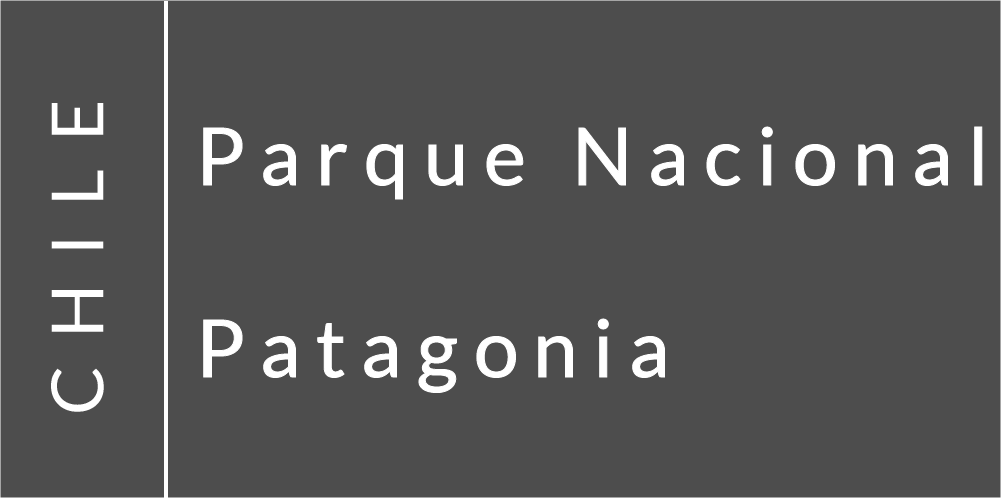
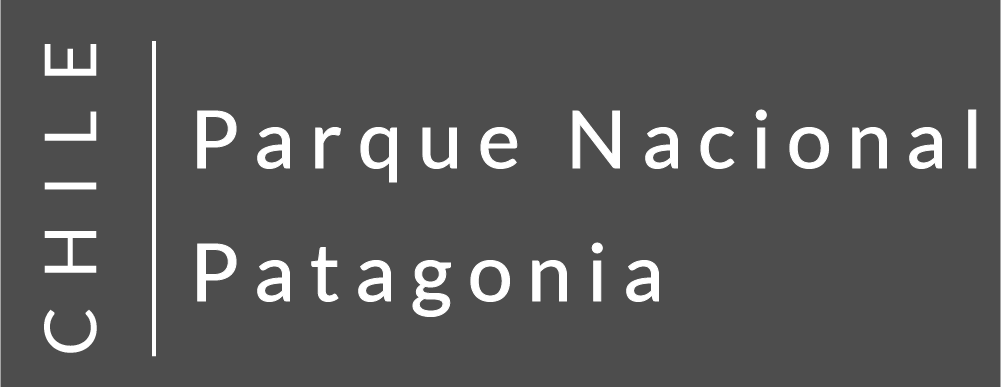
Update billboard labels

diff --git a/labels-3d/index.html b/labels-3d/index.html
@@ -104,7 +104,7 @@
           symbolLayers: [{
             type: "icon",
             resource: { href: "./assets/label-billboard.png" },
-            size: 130,
+            size: 170,
             anchor: "bottom"
           }],
           verticalOffset: {
